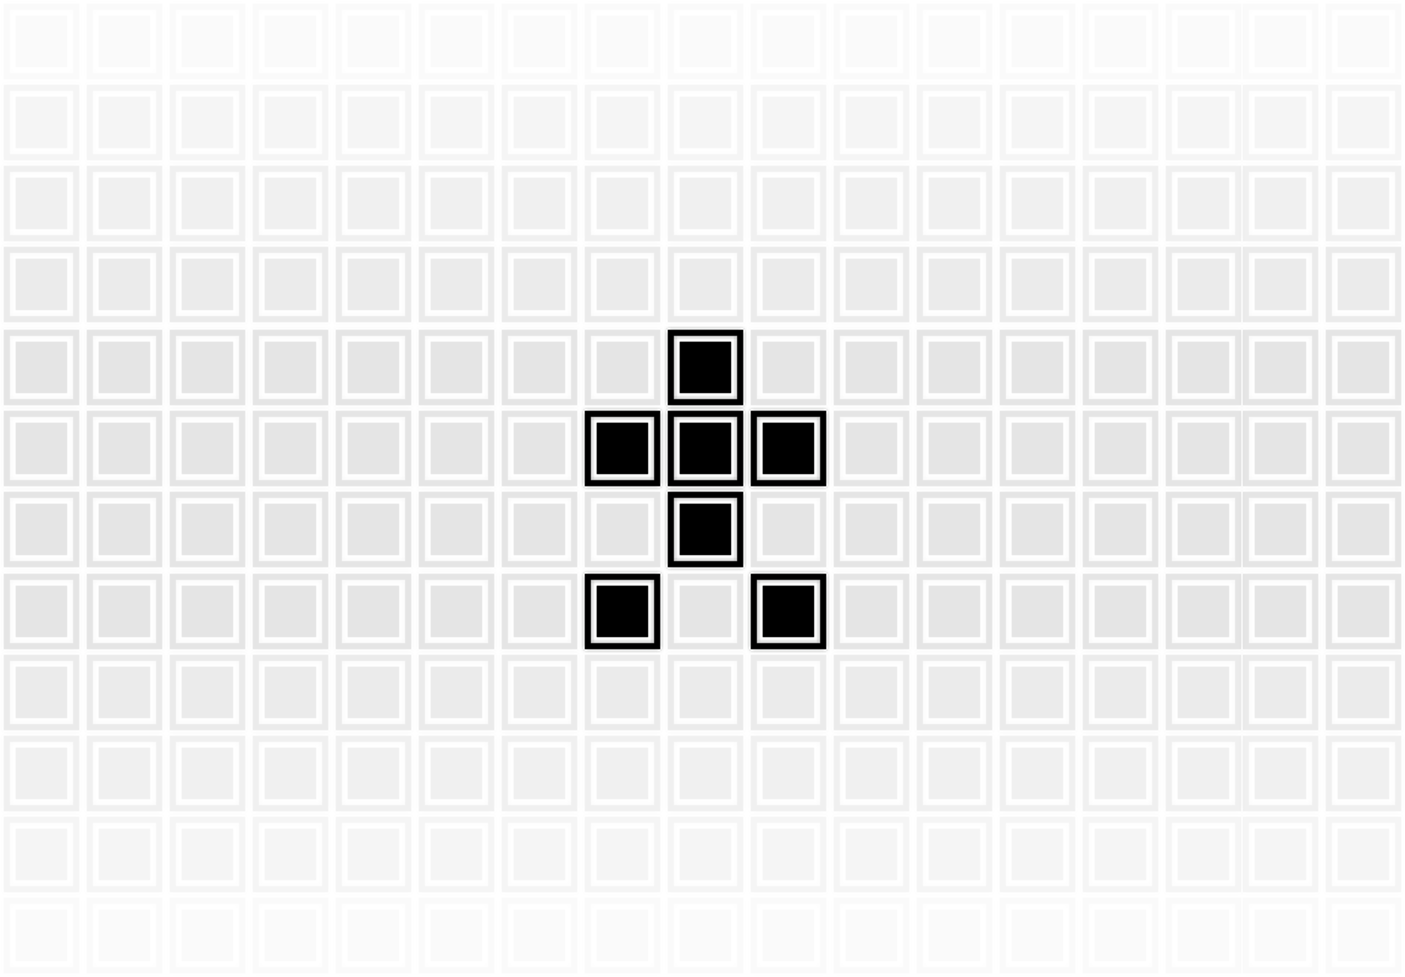
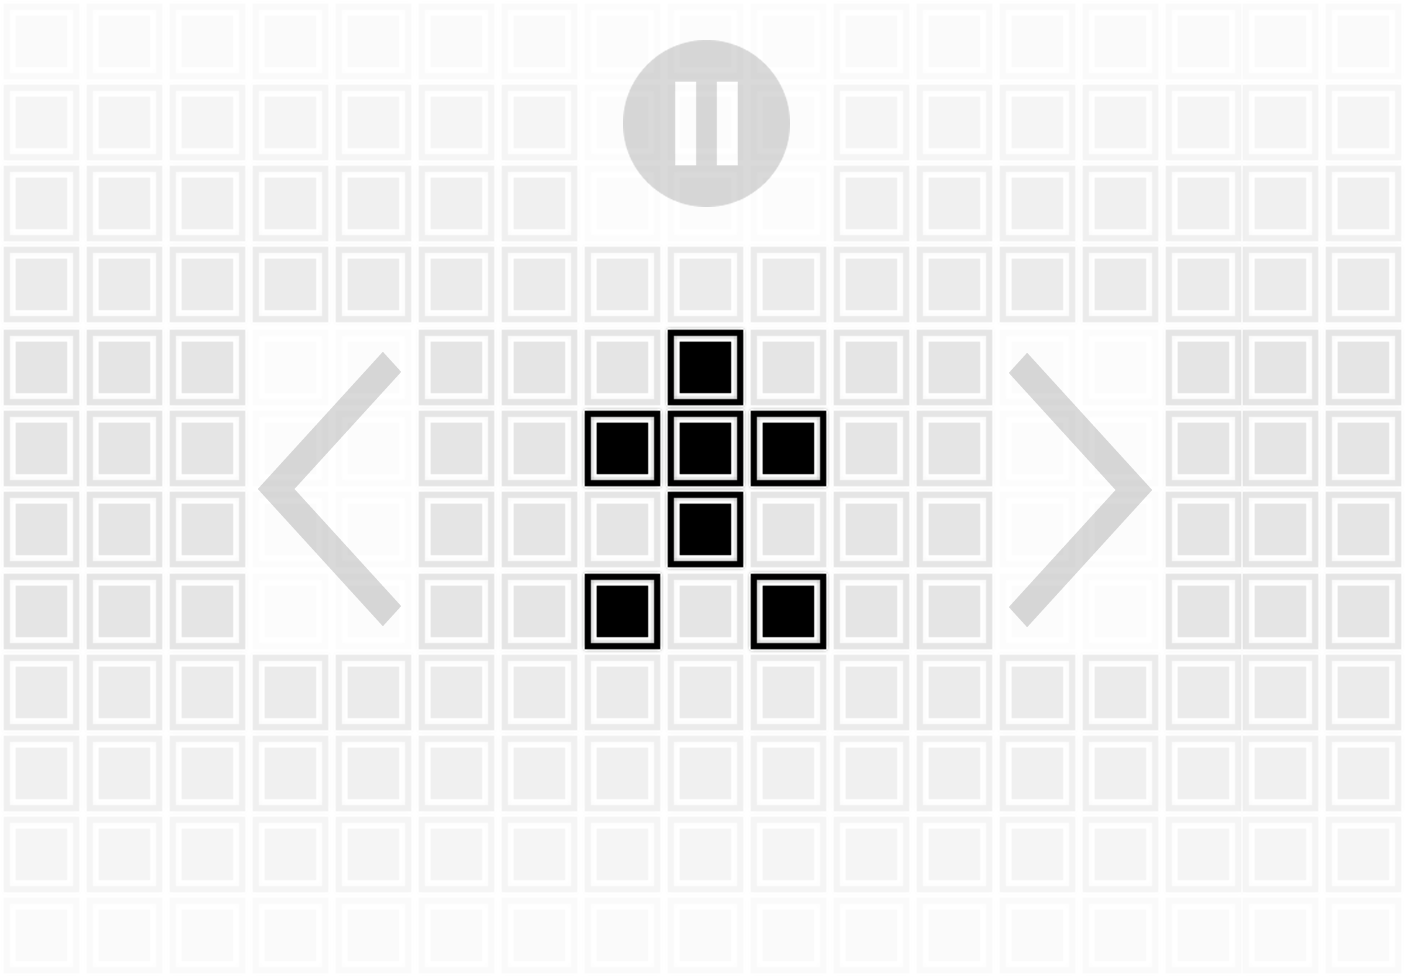
ajustes

diff --git a/Car Racing Challenge/GameViewController.swift b/Car Racing Challenge/GameViewController.swift
@@ -16,6 +16,7 @@ class GameViewController: UIViewController, GKGameCenterControllerDelegate
     var sceneView               : SKView!;
     var menuView                : MenuView!;
     var statusView              : GameStatusView!;
+    var pauseArea               : UIView!;
     var snapshotView            : UIImageView!;
     var showResumeOnStartUp     : Bool = false;
     private var _bestScore      : NSInteger = 0;
@@ -58,6 +59,17 @@ class GameViewController: UIViewController, GKGameCenterControllerDelegate
         
         self.statusView = GameStatusView();
         self.view.addSubview(self.statusView);
+        
+        self.pauseArea = UIView();
+        self.pauseArea.frame = self.view.frame;
+        self.pauseArea.width = self.view.width / 3;
+        self.pauseArea.center.x = self.view.center.x;
+        self.pauseArea.height = self.pauseArea.height * 0.8;
+//        self.pauseArea.backgroundColor = UIColor.redColor();
+//        self.pauseArea.alpha = 0.2;
+        self.pauseArea.backgroundColor = UIColor.clearColor();
+        self.pauseArea.addTarget(self, selector: Selector("pauseGameHandler"));
+        self.view.addSubview(self.pauseArea);
         
         scene.lifeUpHandler = self.statusView.showSuccessAnimation;
         scene.lifeDownHandler = self.statusView.showErrorAnimation;
@@ -212,9 +224,9 @@ class GameViewController: UIViewController, GKGameCenterControllerDelegate
     {
         Trace("GameViewController -> LEVEL UP");
         
-        var ttl:String = "\nLEVEL \(scene.currentLevel())\n";
+        var ttl:String = "\nPIT STOP \(scene.currentLevel())\n";
         var desc:String!;
-        var act:String = "LET'S GO!";
+        var act:String = "GO FASTER!";
         var selector:Selector = Selector("resumeLevelUp:");
         
         if(!Configs.SAMPLE_MODE)
@@ -293,10 +305,15 @@ class GameViewController: UIViewController, GKGameCenterControllerDelegate
         if(self.showResumeOnStartUp)
         {
             self.showResumeOnStartUp = false;
-            showMenu("RESUME\n\n", desc: " \n \n \nARE YOU READY?", action: "YES!", selector: Selector("resumeLevelUp:"));
+            self.pauseGameHandler();
         }
         
         Utils.hideAlert(nil);
+    }
+    
+    func pauseGameHandler()
+    {
+        showMenu("GAME PAUSED\n\n", desc: " \n \n \nARE YOU READY?", action: "RESUME", selector: Selector("resumeLevelUp:"));
     }
     
     func gameCenterViewControllerDidFinish(gameCenterViewController: GKGameCenterViewController!)

diff --git a/Car Racing Challenge/MenuView.swift b/Car Racing Challenge/MenuView.swift
@@ -286,10 +286,7 @@ class MenuView: AbstractView, ADBannerViewDelegate
 //        self.instructImg.alpha = 0;
         self.addSubview(self.instructImg);
         self.instructImg.center = self.center;
-        if(self.height <= 480)
-        {
-            self.instructImg.y += 20;
-        }
+        self.instructImg.y += 10;
         
 //        self.instructs.text = "each \(scoreToLifeUp) points earned = 1 life up";
 //        self.instructs.font = Fonts.DefaultFont(FontSize.Tiny * self.scaleFactor);
